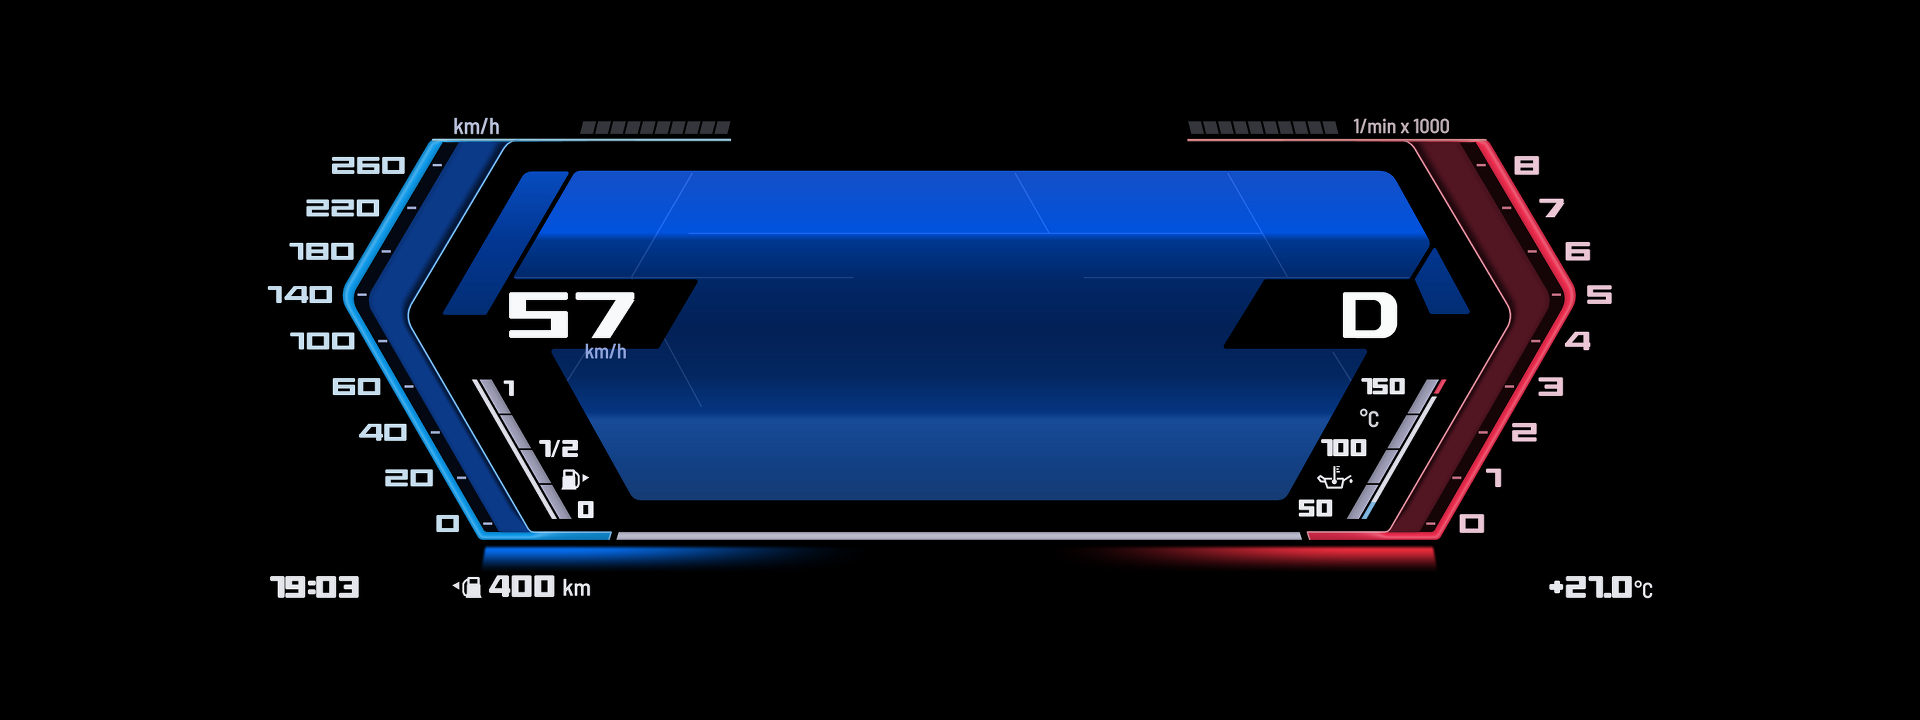
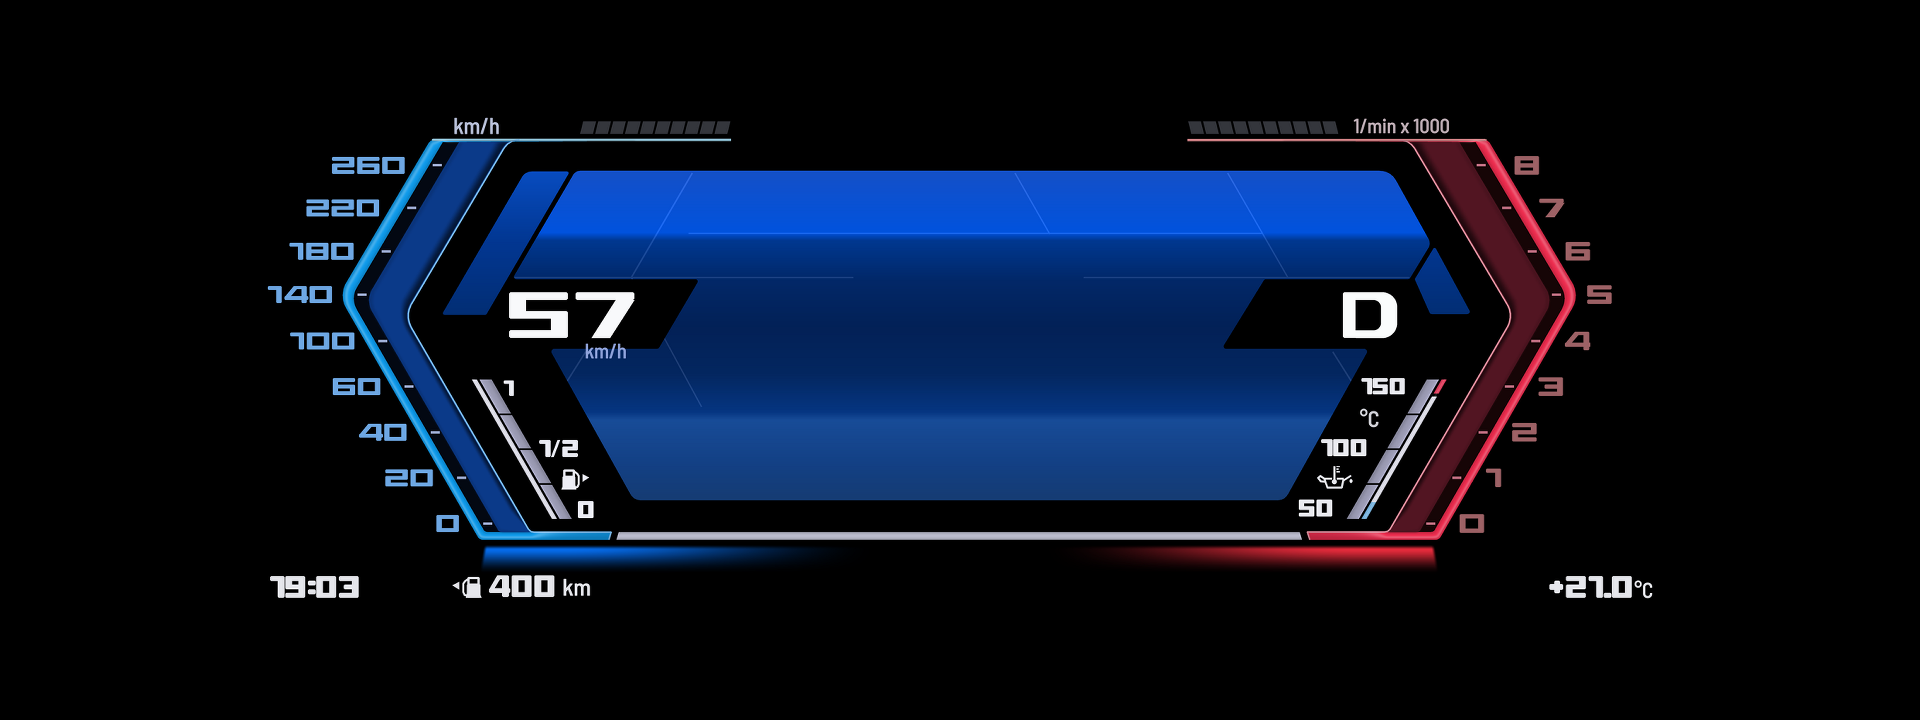
cluster: ID8-A scale numbers dim (blue / red) and white only near the value; shift lights from the app's rpm (diesel 4000 / 4400 / 4600), flashing every frame past the last red
Claude-Session: https://claude.ai/code/session_01APCM7bQyWwkFmahRh5zUds

diff --git a/cluster/tools/gen_static.py b/cluster/tools/gen_static.py
@@ -953,6 +953,34 @@ def draw_shift_lights(img, cfg, lit=0, flash=False):
     return img
 
 
+def light_numbers(img, cfg, el, y_v):
+    """The scale's numbers near the value drawn again in white over their dim colour, by how near they are (in marks)."""
+    n = el['numbers']
+    lt = n.get('lit')
+    if not lt:
+        return img
+    W, H = cfg['grid']
+    sc = el['ticks']['scales'][n['scale']]
+    vals, ys = (sc['values'], sc['y']) if isinstance(sc, dict) else (sc, el['ticks']['y'])
+    yy = sorted(y * H for y in ys)
+    step = (yy[-1] - yy[0]) / max(len(yy) - 1, 1)
+    out = fillet_polyline(to_px(cfg, el['outline']))
+    left = n.get('align') == 'left'
+    for v, yn in zip(vals, ys):
+        y = yn * H
+        d = abs(y - y_v) / step
+        w = float(np.clip(1 - (d - lt['full']) / (lt['fade'] - lt['full']), 0, 1))
+        if w <= 0:
+            continue
+        layer = Image.new('RGBA', img.size, (0, 0, 0, 0))
+        draw_number(layer, str(v), x_on(out, y) + (n['gap'] if left else -n['gap']), y, n['h'], n['advance'],
+                    lt['color'], align='left' if left else 'right')
+        a = np.asarray(layer).copy()
+        a[..., 3] = (a[..., 3].astype(np.float32) * w).astype(np.uint8)
+        img.alpha_composite(Image.fromarray(a, 'RGBA'))
+    return img
+
+
 def draw_dynamic(img, cfg, tel):
     """The live layer over the static one (both at the reference's size): speed and revs fills with their bars, the
     rev zones for the oil temperature, the fuel and temperature levels, the big speed and gear."""
@@ -977,10 +1005,19 @@ def draw_dynamic(img, cfg, tel):
     # the shift lights: from 'from_rpm' below the shift point (the redline less 'before') up to it
     sl = E.get('shift_lights')
     if sl:
-        shift = rz['red'] - sl.get('before', 300)
-        start = shift - sl['span'][eng]
-        lit = int(np.clip((tel['rpm'] - start) / (shift - start), 0, 1) * sl['n'] + 1e-6)
-        img = draw_shift_lights(img, cfg, lit, tel['rpm'] >= shift)
+        sr = sl['rpm'][eng]
+        n_y = sum(1 for c in sl['colors'] if c[0] > 250 and c[1] > 150)      # the yellow ones
+        r = tel['rpm']
+        if r < sr['first_red']:
+            lit = int(np.clip((r - sr['start']) / (sr['first_red'] - sr['start']), 0, 1) * n_y + 1e-6)
+        else:
+            lit = n_y + 1 + int(np.clip((r - sr['first_red']) / (sr['last_red'] - sr['first_red']), 0, 1) * (sl['n'] - n_y - 1) + 1e-6)
+        past = r > sr['last_red']
+        flash_on = tel.get('frame', 0) % 2 == 0                # past the last red: on / off every frame
+        img = draw_shift_lights(img, cfg, 0 if past and not flash_on else lit, past and flash_on)
+    # the numbers near the value light white
+    img = light_numbers(img, cfg, L, value_y(L, L['numbers']['scale'], tel['speed']))
+    img = light_numbers(img, cfg, R, value_y(R, rz['scale'], tel['rpm'] / 1000))
     # the fills
     img = draw_bracket_value(img, cfg, L, value_y(L, L['numbers']['scale'], tel['speed']), 'blue')
     img = draw_bracket_value(img, cfg, R, value_y(R, rz['scale'], tel['rpm'] / 1000), 'red')

diff --git a/CLAUDE.md b/CLAUDE.md
@@ -28,6 +28,8 @@ L'app raccoglie i layout in tre categorie, scelte dalle impostazioni dell'app (c
   - **Carburante ID8:** la barra diventa **gialla in riserva** e **rossa quasi a secco**, con il criterio scelto dall'app: **litri** (giallo a 8 L, rosso a 4 L) oppure **autonomia** (giallo a 90 km, rosso a 50 km); entrambi da `KombiIF statusRangeTankStatus`.
   - **Strumentino destro ID8:** benzina **olio 50-100-150 °C**, diesel **acqua 50-90-130 °C** (icona del refrigerante); un solo parametro `engine` dall'app sceglie anche la scala del contagiri (8 / 6). Il riempimento è **blu fino a 65 °C** (motore freddo, stesso blu del tachimetro), poi normale. In unità imperiali (stessa impostazione di km/h / mph): olio **120-210-300 °F**, acqua **120-190-260 °F**, soglie convertite (blu fino a 149 °F, rosso olio 284 °F, acqua 248 °F).
   - **Marcia ID8:** sempre **lettera + numero di marcia**, in qualsiasi modalità: **D1…D8**, **S1…S8**, **M1…M8** (S / M da `MDrive dataDisplayGearbox` o `VehicleInformation statusGearboxDrive`; dove l'auto non distingue S/M, perché senza mappa cambio o modulo M, resta D + numero); P, R, N da soli. Lettere P R N D S M ricalcate nello stile delle cifre BMW.
+  - **Shift light ID8-A** (non OEM, voluto): due barre da 10 segmenti sopra le linee superiori, dagli estremi verso il centro, gialli poi rossi; soglie dall'app, default **diesel**: accensione da **4000**, primo rosso **4400**, ultimo rosso **4600**, poi **lampeggio** a ogni fotogramma (15 Hz a 30 FPS).
+  - **Numeri delle scale ID8:** colore tenue (azzurro a sinistra, rosso a destra); diventano **bianchi solo vicino al valore** (entro ~0,75 tacche, sfumando fino a 1,25).
   - ID8-C sinistra: **G-meter** (foto 4), **mappa/navigazione** (foto 6) oppure **4 letture** con scala: boost, refrigerante, olio, temperatura esterna (foto 7).
 - Struttura: un `config.json` (quote normalizzate) e uno statico pre-renderizzato per ogni layout, in cartelle `id7/`, `id8/`, `custom/`; gli slot in una cartella propria, riusabili tra layout. Le foto di riferimento restano fuori da git.
 
